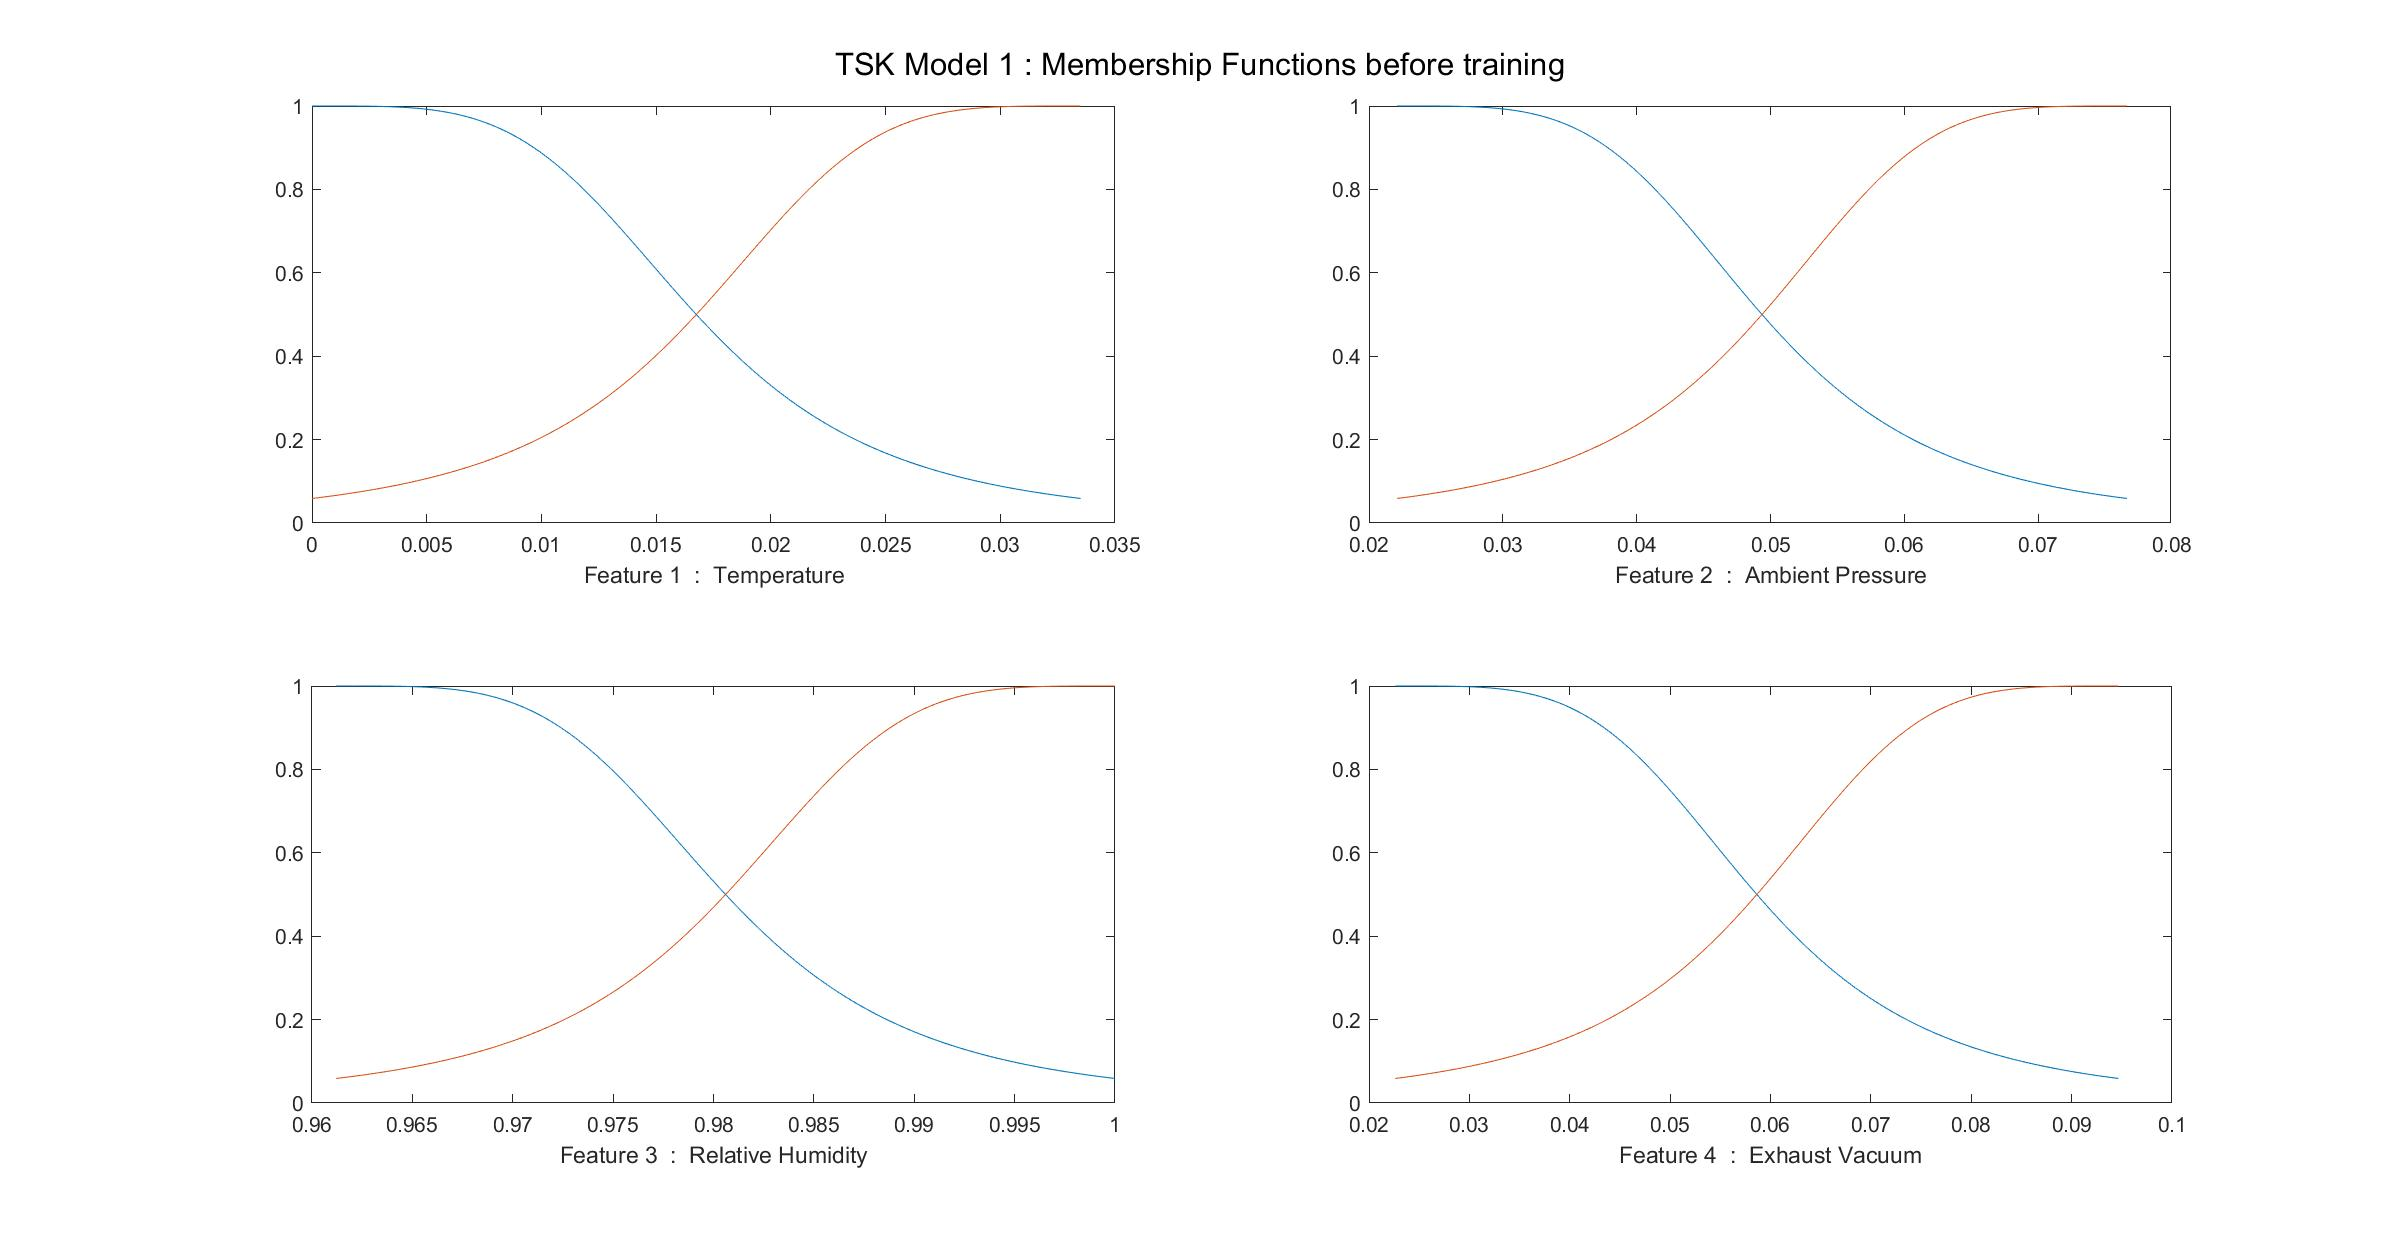
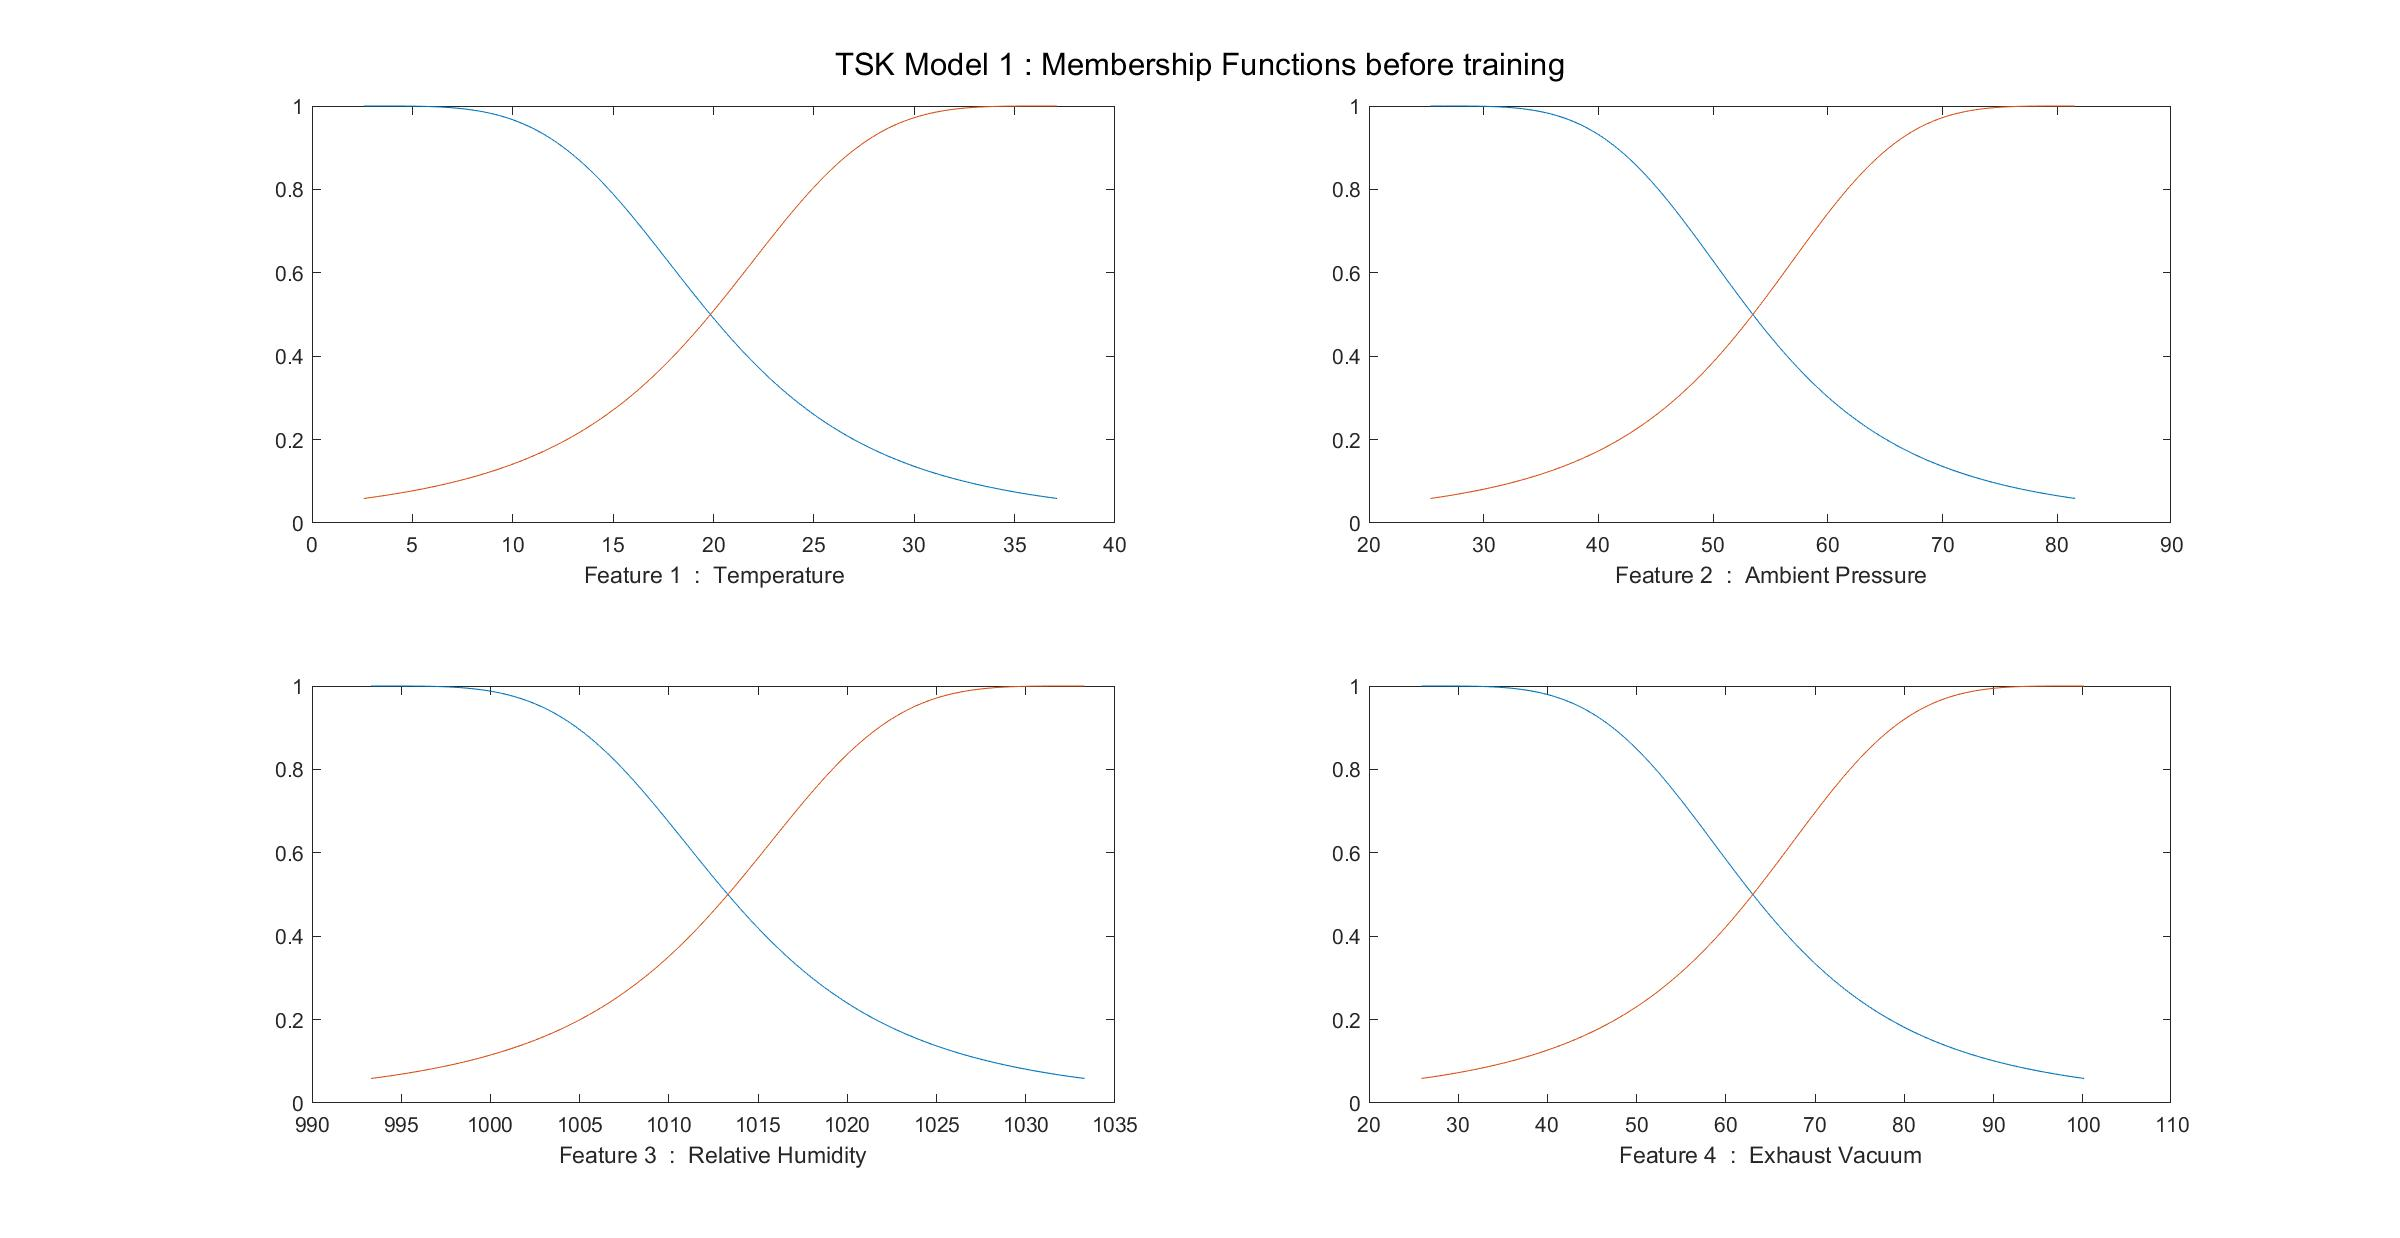
removed normalization procedure

diff --git a/asafi-ergasia4/avilaModel.m b/asafi-ergasia4/avilaModel.m
@@ -21,7 +21,7 @@ tic
 load avila.txt
 
 % Cluster Radius parameter for Subtractive Clustering Algorithm
-radius = [0.3;0.4;0.5;0.6] ;
+radius = [0.4;0.5;0.6;0.7;0.8] ;
 % Number of Rules produced by Subtractive Clustering Algorithm
 NR = zeros(size(radius,1),1);
 
@@ -81,24 +81,24 @@ check_set = shuffleSet(check_set);
 % % Normalize check set based on the training set data
 % check_set = (check_set - training_set_min) / (training_set_max - training_set_min); % Scaled to [0 , 1]
 
-%% Data Normalization (Normalize each feautre separately)
-
-for i = 1 : size(training_set, 2) % for every feature
-    
-    % Find min and max of the feature
-    training_set_min = min(training_set(:, i));
-    training_set_max = max(training_set(:, i));
-    
-    % Normalize training set
-    training_set(:, i) = (training_set(:, i) - training_set_min) / (training_set_max - training_set_min); % Scaled to [0 , 1]
-    
-    % Normalize validation set based on the training set data
-    validation_set(:, i) = (validation_set(:, i) - training_set_min) / (training_set_max - training_set_min); % Scaled to [0 , 1]
-    
-    % Normalize check set based on the training set data
-    check_set(:, i) = (check_set(:, i) - training_set_min) / (training_set_max - training_set_min); % Scaled to [0 , 1]
-    
-end
+% %% Data Normalization (Normalize each feautre separately)
+% 
+% for i = 1 : size(training_set, 2) % for every feature
+%     
+%     % Find min and max of the feature
+%     training_set_min = min(training_set(:, i));
+%     training_set_max = max(training_set(:, i));
+%     
+%     % Normalize training set
+%     training_set(:, i) = (training_set(:, i) - training_set_min) / (training_set_max - training_set_min); % Scaled to [0 , 1]
+%     
+%     % Normalize validation set based on the training set data
+%     validation_set(:, i) = (validation_set(:, i) - training_set_min) / (training_set_max - training_set_min); % Scaled to [0 , 1]
+%     
+%     % Normalize check set based on the training set data
+%     check_set(:, i) = (check_set(:, i) - training_set_min) / (training_set_max - training_set_min); % Scaled to [0 , 1]
+%     
+% end
 
 %% Train 5 TSK Models
 
@@ -115,7 +115,7 @@ for m = 1 : length(NR)
     
     for i = 1 : length(InitialFIS.output.mf)
         InitialFIS.output.mf(i).type = 'constant';
-        %InitialFIS.output.mf(i).params = rand(); %%%%%%%%%%%%%%%%%%%%%%%%%%%%%%%%%%
+%         InitialFIS.output.mf(i).params = rand(); %%%%%%%%%%%%%%%%%%%%%%%%%%%%%%%%%%
     end
     
     % Plot Inital Membership Functions
@@ -213,7 +213,7 @@ toc
 function sorted = sortDataset(dataset)
 
 [~,idx] = sort(dataset(:,end));
-sorted = dataset(idx,:);
+sorted = unique( dataset(idx,:) ,'rows','stable');
 
 end
 

diff --git a/asafi-ergasia3/optimumModel.m b/asafi-ergasia3/optimumModel.m
@@ -40,27 +40,27 @@ training_set = shuffledData(1 : round(0.6*size(shuffledData,1)), :); % 60% will 
 validation_set = shuffledData(round(0.6*size(shuffledData,1))+1 : round(0.8 * size(shuffledData,1)), :); % 20% will be used for validation
 check_set = shuffledData(round(0.8*size(shuffledData,1))+1 : end, :); % 20% will be used for testing
 
-%% Data Normalization (Normalize each feautre separately)
-
-for i = 1 : size(training_set, 2) - 1 % for every feature
-    
-    % Find min and max of the feature
-    training_set_min = min(training_set(:, i));
-    training_set_max = max(training_set(:, i));
-    
-    % Normalize training set
-    training_set(:, i) = (training_set(:, i) - training_set_min) / (training_set_max - training_set_min); % Scaled to [0 , 1]
-    training_set(:, i) = training_set(:, i) * 2 - 1; % Scaled to [-1 , 1]
-    
-    % Normalize validation set based on the training set data
-    validation_set(:, i) = (validation_set(:, i) - training_set_min) / (training_set_max - training_set_min); % Scaled to [0 , 1]
-    validation_set(:, i) = validation_set(:, i) * 2 - 1; % Scaled to [-1 , 1]
-    
-    % Normalize check set based on the training set data
-    check_set(:, i) = (check_set(:, i) - training_set_min) / (training_set_max - training_set_min); % Scaled to [0 , 1]
-    check_set(:, i) = check_set(:, i) * 2 - 1; % Scaled to [-1 , 1]
-
-end
+% %% Data Normalization (Normalize each feautre separately)
+% 
+% for i = 1 : size(training_set, 2) - 1 % for every feature
+%     
+%     % Find min and max of the feature
+%     training_set_min = min(training_set(:, i));
+%     training_set_max = max(training_set(:, i));
+%     
+%     % Normalize training set
+%     training_set(:, i) = (training_set(:, i) - training_set_min) / (training_set_max - training_set_min); % Scaled to [0 , 1]
+%     training_set(:, i) = training_set(:, i) * 2 - 1; % Scaled to [-1 , 1]
+%     
+%     % Normalize validation set based on the training set data
+%     validation_set(:, i) = (validation_set(:, i) - training_set_min) / (training_set_max - training_set_min); % Scaled to [0 , 1]
+%     validation_set(:, i) = validation_set(:, i) * 2 - 1; % Scaled to [-1 , 1]
+%     
+%     % Normalize check set based on the training set data
+%     check_set(:, i) = (check_set(:, i) - training_set_min) / (training_set_max - training_set_min); % Scaled to [0 , 1]
+%     check_set(:, i) = check_set(:, i) * 2 - 1; % Scaled to [-1 , 1]
+% 
+% end
 
 
 %% FIS Generation

diff --git a/asafi-ergasia4/gridSearch.m b/asafi-ergasia4/gridSearch.m
@@ -90,24 +90,24 @@ check_set = shuffleSet(check_set);
 % % Normalize check set based on the training set data
 % check_set = (check_set - training_set_min) / (training_set_max - training_set_min); % Scaled to [0 , 1]
 
-%% Data Normalization (Normalize each feautre separately)
-
-for i = 1 : size(training_set, 2) % for every feature
-    
-    % Find min and max of the feature
-    training_set_min = min(training_set(:, i));
-    training_set_max = max(training_set(:, i));
-    
-    % Normalize training set
-    training_set(:, i) = (training_set(:, i) - training_set_min) / (training_set_max - training_set_min); % Scaled to [0 , 1]
-    
-    % Normalize validation set based on the training set data
-    validation_set(:, i) = (validation_set(:, i) - training_set_min) / (training_set_max - training_set_min); % Scaled to [0 , 1]
-    
-    % Normalize check set based on the training set data
-    check_set(:, i) = (check_set(:, i) - training_set_min) / (training_set_max - training_set_min); % Scaled to [0 , 1]
-    
-end
+% %% Data Normalization (Normalize each feautre separately)
+% 
+% for i = 1 : size(training_set, 2) % for every feature
+%     
+%     % Find min and max of the feature
+%     training_set_min = min(training_set(:, i));
+%     training_set_max = max(training_set(:, i));
+%     
+%     % Normalize training set
+%     training_set(:, i) = (training_set(:, i) - training_set_min) / (training_set_max - training_set_min); % Scaled to [0 , 1]
+%     
+%     % Normalize validation set based on the training set data
+%     validation_set(:, i) = (validation_set(:, i) - training_set_min) / (training_set_max - training_set_min); % Scaled to [0 , 1]
+%     
+%     % Normalize check set based on the training set data
+%     check_set(:, i) = (check_set(:, i) - training_set_min) / (training_set_max - training_set_min); % Scaled to [0 , 1]
+%     
+% end
 
 %% ReliefF Algorithm
 % Evaluate feature's importance using Relieff Algorithm
@@ -300,7 +300,7 @@ toc
 function sorted = sortDataset(dataset)
 
 [~,idx] = sort(dataset(:,end));
-sorted = dataset(idx,:);
+sorted = unique( dataset(idx,:) ,'rows','stable');
 
 end
 

diff --git a/asafi-ergasia3/gridSearch.m b/asafi-ergasia3/gridSearch.m
@@ -67,24 +67,24 @@ check_set = shuffledData(round(0.8*size(shuffledData,1))+1 : end, :); % 20% will
 % % Normalize check set based on the training set data
 % check_set = (check_set - training_set_min) / (training_set_max - training_set_min); % Scaled to [0 , 1]
 
-%% Data Normalization (Normalize each feautre separately)
-
-for i = 1 : size(training_set, 2) % for every feature
-    
-    % Find min and max of the feature
-    training_set_min = min(training_set(:, i));
-    training_set_max = max(training_set(:, i));
-    
-    % Normalize training set
-    training_set(:, i) = (training_set(:, i) - training_set_min) / (training_set_max - training_set_min); % Scaled to [0 , 1]
-    
-    % Normalize validation set based on the training set data
-    validation_set(:, i) = (validation_set(:, i) - training_set_min) / (training_set_max - training_set_min); % Scaled to [0 , 1]
-    
-    % Normalize check set based on the training set data
-    check_set(:, i) = (check_set(:, i) - training_set_min) / (training_set_max - training_set_min); % Scaled to [0 , 1]
-    
-end
+% %% Data Normalization (Normalize each feautre separately)
+% 
+% for i = 1 : size(training_set, 2) % for every feature
+%     
+%     % Find min and max of the feature
+%     training_set_min = min(training_set(:, i));
+%     training_set_max = max(training_set(:, i));
+%     
+%     % Normalize training set
+%     training_set(:, i) = (training_set(:, i) - training_set_min) / (training_set_max - training_set_min); % Scaled to [0 , 1]
+%     
+%     % Normalize validation set based on the training set data
+%     validation_set(:, i) = (validation_set(:, i) - training_set_min) / (training_set_max - training_set_min); % Scaled to [0 , 1]
+%     
+%     % Normalize check set based on the training set data
+%     check_set(:, i) = (check_set(:, i) - training_set_min) / (training_set_max - training_set_min); % Scaled to [0 , 1]
+%     
+% end
 
 %% ReliefF Algorithm
 % Evaluate feature's importance using Relieff Algorithm

diff --git a/asafi-ergasia3/ccppTSKModels.m b/asafi-ergasia3/ccppTSKModels.m
@@ -39,20 +39,20 @@ training_set = CCPP(1 : round(0.6*size(CCPP,1)), :); % 60% will be used for trai
 validation_set = CCPP(round(0.6*size(CCPP,1))+1 : round(0.8 * size(CCPP,1)), :); % 20% will be used for validation
 check_set = CCPP(round(0.8*size(CCPP,1))+1 : end, :); % 20% will be used for testing
 
-%% Data Normalization
-
-% Find min and max of the training set
-training_set_min = min(training_set(:));
-training_set_max = max(training_set(:));
-
-% Normalize training set
-training_set = (training_set - training_set_min) / (training_set_max - training_set_min); % Scaled to [0 , 1]
-
-% Normalize validation set based on the training set data
-validation_set = (validation_set - training_set_min) / (training_set_max - training_set_min); % Scaled to [0 , 1]
-
-% Normalize check set based on the training set data
-check_set = (check_set - training_set_min) / (training_set_max - training_set_min); % Scaled to [0 , 1]
+% %% Data Normalization
+% 
+% % Find min and max of the training set
+% training_set_min = min(training_set(:));
+% training_set_max = max(training_set(:));
+% 
+% % Normalize training set
+% training_set = (training_set - training_set_min) / (training_set_max - training_set_min); % Scaled to [0 , 1]
+% 
+% % Normalize validation set based on the training set data
+% validation_set = (validation_set - training_set_min) / (training_set_max - training_set_min); % Scaled to [0 , 1]
+% 
+% % Normalize check set based on the training set data
+% check_set = (check_set - training_set_min) / (training_set_max - training_set_min); % Scaled to [0 , 1]
 
 % %% Data Normalization (Normalize each feautre separately)
 % 
@@ -99,7 +99,7 @@ anfis_opt = anfisOptions('InitialFIS', InitialFIS, 'EpochNumber', 250, 'DisplayA
 [trnFIS, trnError, stepSize, chkFIS, chkError] = anfis(training_set, anfis_opt);
 
 % Evaluate the trained FIS
-y_hat = evalfis(check_set(:,1:end-1),chkFIS);
+y_hat = evalfis(check_set(:,1:end-1),trnFIS);
 y = check_set(:,end);
 
 %% Metrics Calculation

diff --git a/asafi-ergasia4/kosmas/wifi_demo.m b/asafi-ergasia4/kosmas/wifi_demo.m
@@ -11,7 +11,7 @@ close all;
 fprintf('\n *** begin %s ***\n\n', mfilename);
 
 %% READ DATA
-load wifi-localization.dat
+load wifi_localization.txt
 % 2000 instances with 7 features each
 data = wifi_localization;
 NR = [4 8 12 16]; % number of rules
@@ -119,7 +119,7 @@ for r = 1 : length(NR)
     xlabel('x');
     ylabel('Degree of membership');
     fullFileName = sprintf('%d/input_MF_before_training.png', r);
-    saveas(gcf, fullFileName);
+    %% saveas(gcf, fullFileName);
  
     % Tune the fis
     fprintf('\n *** Tuning the FIS\n');
@@ -189,7 +189,7 @@ for r = 1 : length(NR)
     xlabel('x');
     ylabel('Degree of membership');
     fullFileName = sprintf('%d/input_MF_after_training.png', r);
-    saveas(gcf, fullFileName);
+   % % saveas(gcf, fullFileName);
  
     figure;
     plot(1:length(trainError), trainError, 1:length(trainError), chkError);
@@ -198,7 +198,7 @@ for r = 1 : length(NR)
     ylabel('Error');
     legend('Training Set', 'Check Set');
     fullFileName = sprintf('%d/learning_curve.png', r);
-    saveas(gcf, fullFileName);
+    %% saveas(gcf, fullFileName);
  
 end
 
@@ -207,13 +207,13 @@ figure;
 bar(NR(1:length(NR)), overall_acc);
 title('Overall accuracy with regards to number of rules');
 xlabel('Number of rules');
-saveas(gcf, 'overall_accuracy.png');
+% saveas(gcf, 'overall_accuracy.png');
 
 figure;
 bar(NR(1:length(NR)), k);
 title('k value with regards to number of rules');
 xlabel('Number of rules');
-saveas(gcf, 'k_value.png');
+% saveas(gcf, 'k_value.png');
 
 save('error_matrices', 'error_matrices');
 save('overall_acc', 'overall_acc');
